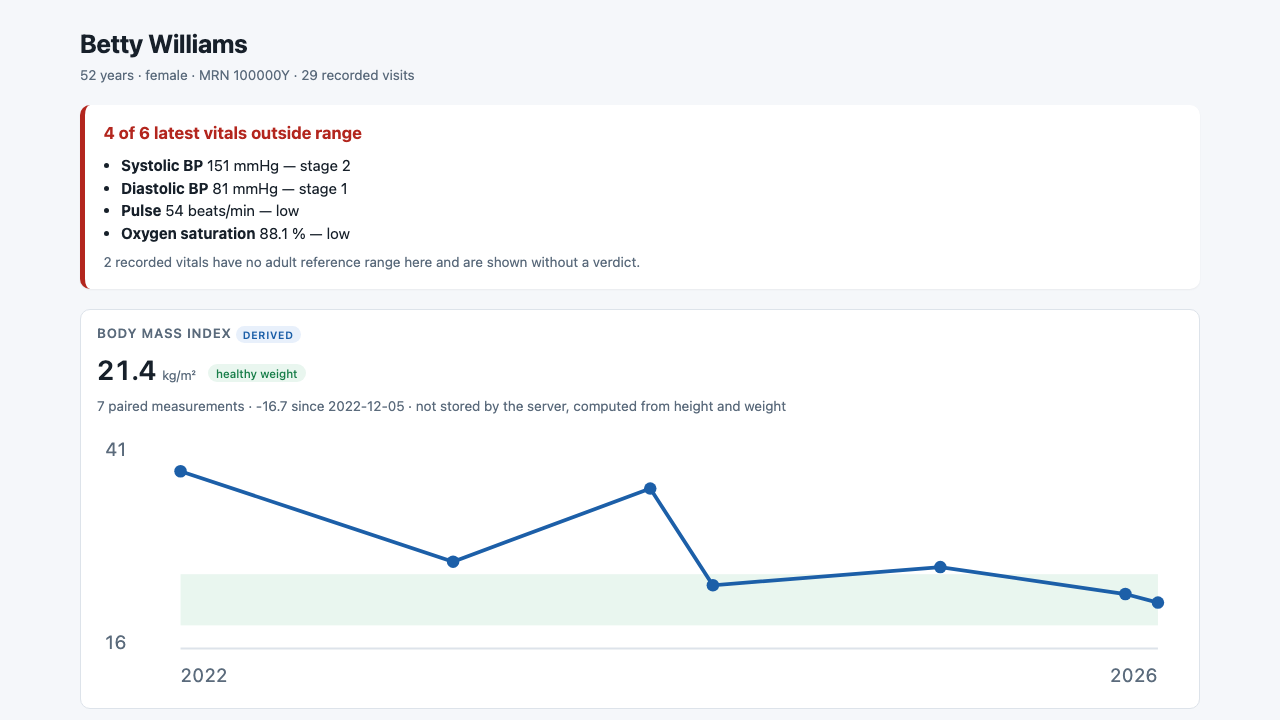
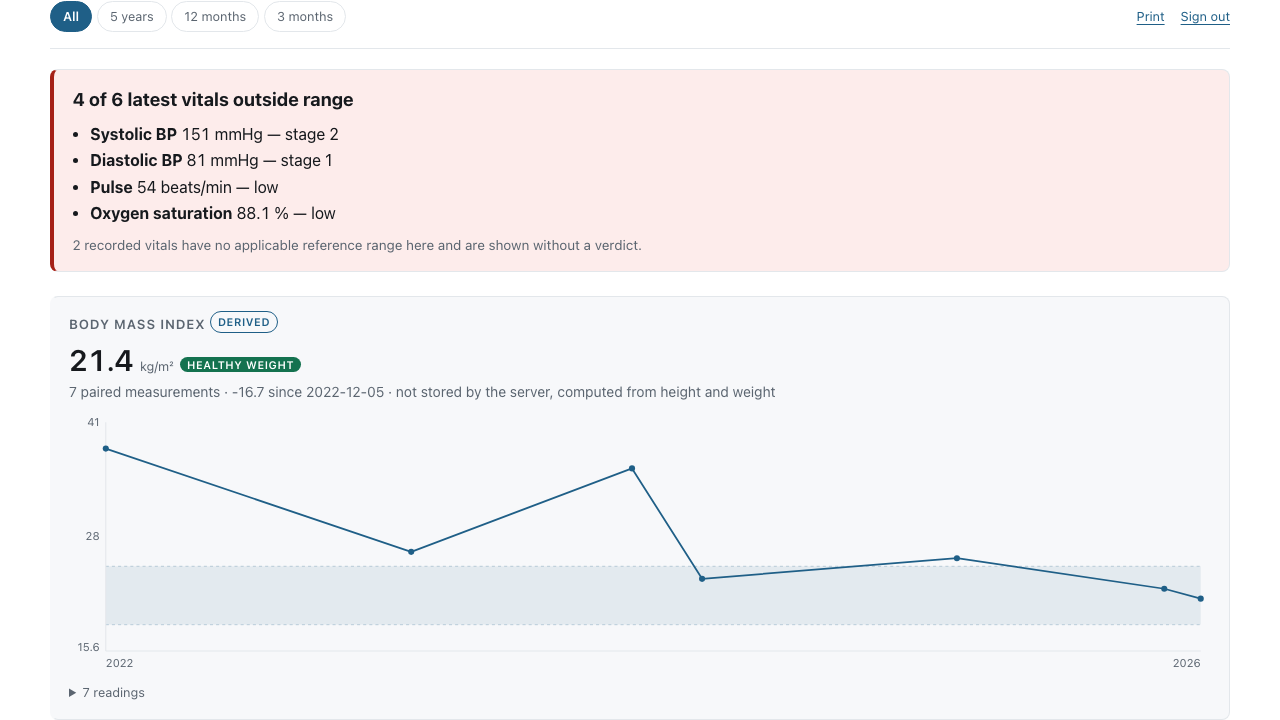
Recapture the walkthrough against the released app

diff --git a/docs/ehr-launch.md b/docs/ehr-launch.md
@@ -57,6 +57,17 @@ Look at what it is doing. It is not displaying the record back:
 Those numbers agree with the chart in step 2 — same pressures, same pulse, same saturation, same BMI —
 which is the point: two independent readings of one record.
 
+The controls along the top belong to the application, not to OpenMRS. **Sign out** ends the authorization
+server's session as well as the app's, because closing the tab leaves that session open and the next
+launch is then granted silently as whoever launched last. The period chips narrow every chart, measured
+back from the most recent reading rather than from today.
+
+And none of this was built here. The application is released on its own and pulled as an image —
+[openmrs-smart-vitals-reviews-app](https://github.com/mherman22/openmrs-smart-vitals-reviews-app) — which
+is what a site does with any third-party SMART app. It was given a client id and a FHIR server through
+its environment and nothing else; it has no knowledge of this distribution, and this distribution holds
+none of its source.
+
 ## What happened on the wire
 
 Recorded during this walkthrough into [`launch-redirects.txt`](launch-redirects.txt), with credentials
